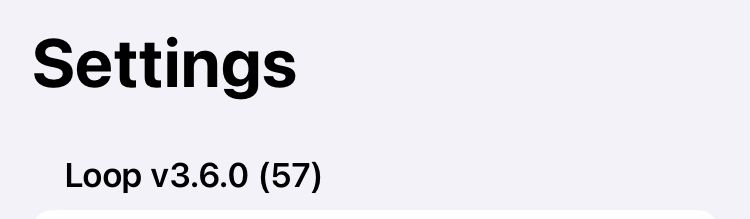
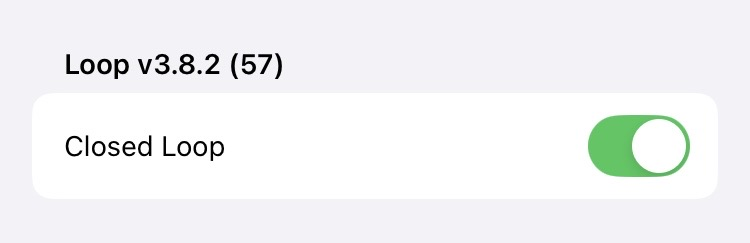
update status for dev branch

diff --git a/docs/version/releases.md b/docs/version/releases.md
@@ -10,13 +10,13 @@ For information about version 2 releases and compatibility between version 2 and
 
 The current released version for the *Loop* app is v3.8.2 and is built from the `main` branch of LoopWorkspace. The dates and contents for releases are summarized below in reverse chronological order (so newest release information comes first).
 
-> When main is updated to v3.8.2, the same update is planned for the `dev` branch. It may take a day or two before `dev` is updated to 3.9.2.
+> When main was updated to v3.8.2, the same update was made to the`dev` branch. At this time, the `dev` branch is identical to `main` with the exception of the version number, which is at 3.9.2.
 
-> See [Updates in `dev`](development.md#updates-in-dev){: target="_blank" } for a summary of difference, if any, between `main` and `dev`.
+When there are updates to `dev`, differences between `main` and `dev` will be summarized in [Updates in `dev`](development.md#updates-in-dev){: target="_blank" }.
 
 ### What Version Do I Have?
 
-Tap on the Settings icon at the toolbar of the *Loop* app and look at the version information at upper left. (This graphic shows an older release.)
+Tap on the Settings icon at the toolbar of the *Loop* app and look at the version information at upper left.
     
 ![Determine current app version on app settings screen](img/app-version.jpg){width="400"}
 {align="center"}
@@ -72,7 +72,7 @@ This version updates a few iOS 26 interface issues, moves support for Dana pumps
 * [Remove DanaKit](#why-was-danakit-support-changed) support from `main` and `dev` branches of the *Loop* app
 * Update some translations
 
-> When main is updated to v3.8.2, the same update is planned for the `dev` branch. It may take a day or two before `dev` is updated to 3.9.2.
+> When main was updated to v3.8.2, the same update was made to the`dev` branch. At this time, the `dev` branch is identical to `main` with the exception of the version number, which is at 3.9.2.
 
 #### Why was DanaKit Support Changed
 
